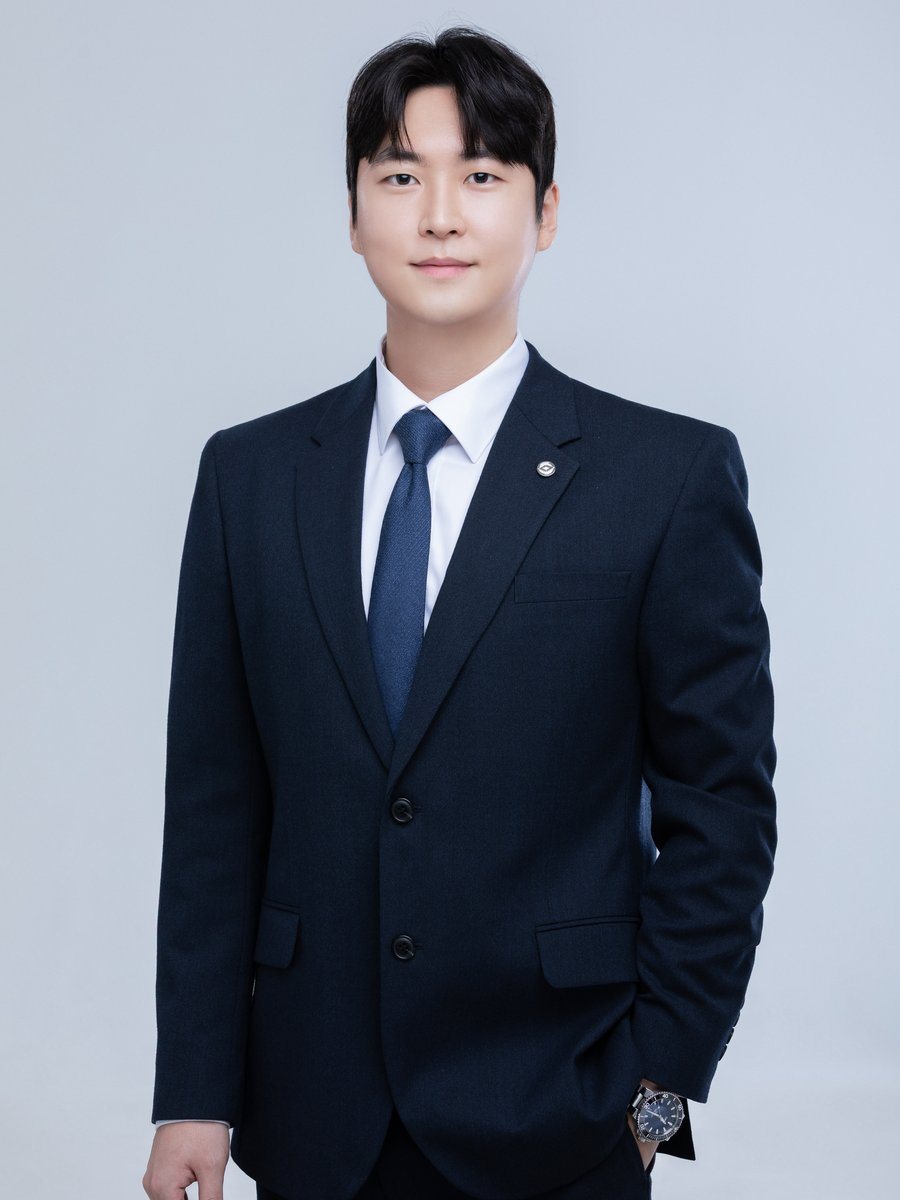
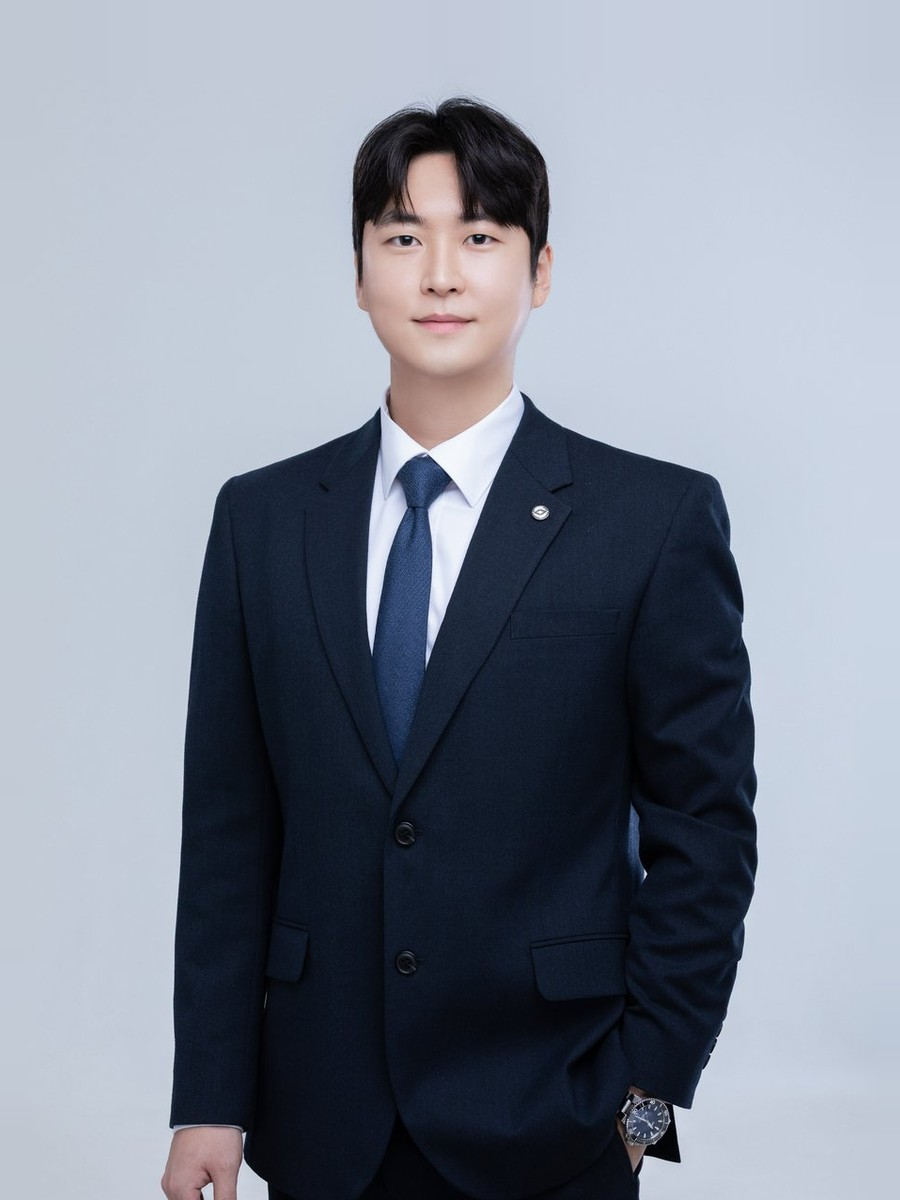
세무사 카드에 학력과 (현)·(전) 표기, 이메일을 대표 메일로, 이재환 사진 인물 크기 조정

diff --git a/about.html b/about.html
@@ -18,7 +18,7 @@
 <link rel="icon" href="img/favicon.png" type="image/png">
 <link rel="preconnect" href="https://cdn.jsdelivr.net" crossorigin>
 <link rel="stylesheet" href="https://cdn.jsdelivr.net/gh/orioncactus/pretendard@v1.3.9/dist/web/variable/pretendardvariable-dynamic-subset.min.css">
-<link rel="stylesheet" href="style.css?v=1795143042">
+<link rel="stylesheet" href="style.css?v=1795148250">
 <script type="application/ld+json">{"@context": "https://schema.org", "@type": "AccountingService", "name": "세무회계 재담", "slogan": "재산을 지키다", "url": "https://jaedam.kr/", "logo": "https://jaedam.kr/img/logo-039.png", "image": "https://jaedam.kr/img/og.png", "telephone": "+82-31-8023-9870", "faxNumber": "+82-31-8023-9871", "sameAs": ["https://blog.naver.com/simtaxby", "https://map.naver.com/p/entry/place/1283285464"], "address": {"@type": "PostalAddress", "addressCountry": "KR", "addressRegion": "경기도", "addressLocality": "성남시 분당구", "streetAddress": "판교역로 178, 서건타워 401호", "postalCode": "13524"}}</script>
 </head>
 <body>
@@ -58,7 +58,9 @@
         <span class="pcard-text">
           <strong>심재민</strong>
           <span class="pcard-role">세무사</span>
-          <span class="pcard-line">서울지방국세청 역삼세무서, 삼성화재</span>
+          <span class="pcard-line">(현) 세무회계 재담</span>
+          <span class="pcard-line">(전) 서울지방국세청 역삼세무서, 삼성화재</span>
+          <span class="pcard-line">University of Illinois at Urbana-Champaign</span>
         </span>
       </a>
       <a class="pcard" href="lee.html">
@@ -66,7 +68,9 @@
         <span class="pcard-text">
           <strong>이재환</strong>
           <span class="pcard-role">세무사</span>
-          <span class="pcard-line">DB손해보험, 세무법인 지오</span>
+          <span class="pcard-line">(현) 세무회계 재담</span>
+          <span class="pcard-line">(전) DB손해보험, 세무법인 지오</span>
+          <span class="pcard-line">고려대학교 철학·사회학 학사</span>
         </span>
       </a>
     </div>

diff --git a/index.html b/index.html
@@ -18,7 +18,7 @@
 <link rel="icon" href="img/favicon.png" type="image/png">
 <link rel="preconnect" href="https://cdn.jsdelivr.net" crossorigin>
 <link rel="stylesheet" href="https://cdn.jsdelivr.net/gh/orioncactus/pretendard@v1.3.9/dist/web/variable/pretendardvariable-dynamic-subset.min.css">
-<link rel="stylesheet" href="style.css?v=1795143042">
+<link rel="stylesheet" href="style.css?v=1795148250">
 <script type="application/ld+json">{"@context": "https://schema.org", "@type": "AccountingService", "name": "세무회계 재담", "slogan": "재산을 지키다", "url": "https://jaedam.kr/", "logo": "https://jaedam.kr/img/logo-039.png", "image": "https://jaedam.kr/img/og.png", "telephone": "+82-31-8023-9870", "faxNumber": "+82-31-8023-9871", "sameAs": ["https://blog.naver.com/simtaxby", "https://map.naver.com/p/entry/place/1283285464"], "address": {"@type": "PostalAddress", "addressCountry": "KR", "addressRegion": "경기도", "addressLocality": "성남시 분당구", "streetAddress": "판교역로 178, 서건타워 401호", "postalCode": "13524"}}</script>
 </head>
 <body>
@@ -61,7 +61,9 @@
         <span class="pcard-text">
           <strong>심재민</strong>
           <span class="pcard-role">세무사</span>
-          <span class="pcard-line">서울지방국세청 역삼세무서, 삼성화재</span>
+          <span class="pcard-line">(현) 세무회계 재담</span>
+          <span class="pcard-line">(전) 서울지방국세청 역삼세무서, 삼성화재</span>
+          <span class="pcard-line">University of Illinois at Urbana-Champaign</span>
         </span>
       </a>
       <a class="pcard" href="lee.html">
@@ -69,7 +71,9 @@
         <span class="pcard-text">
           <strong>이재환</strong>
           <span class="pcard-role">세무사</span>
-          <span class="pcard-line">DB손해보험, 세무법인 지오</span>
+          <span class="pcard-line">(현) 세무회계 재담</span>
+          <span class="pcard-line">(전) DB손해보험, 세무법인 지오</span>
+          <span class="pcard-line">고려대학교 철학·사회학 학사</span>
         </span>
       </a>
     </div>

diff --git a/sim.html b/sim.html
@@ -18,7 +18,7 @@
 <link rel="icon" href="img/favicon.png" type="image/png">
 <link rel="preconnect" href="https://cdn.jsdelivr.net" crossorigin>
 <link rel="stylesheet" href="https://cdn.jsdelivr.net/gh/orioncactus/pretendard@v1.3.9/dist/web/variable/pretendardvariable-dynamic-subset.min.css">
-<link rel="stylesheet" href="style.css?v=1795143042">
+<link rel="stylesheet" href="style.css?v=1795148250">
 <script type="application/ld+json">{"@context": "https://schema.org", "@type": "AccountingService", "name": "세무회계 재담", "slogan": "재산을 지키다", "url": "https://jaedam.kr/", "logo": "https://jaedam.kr/img/logo-039.png", "image": "https://jaedam.kr/img/og.png", "telephone": "+82-31-8023-9870", "faxNumber": "+82-31-8023-9871", "sameAs": ["https://blog.naver.com/simtaxby", "https://map.naver.com/p/entry/place/1283285464"], "address": {"@type": "PostalAddress", "addressCountry": "KR", "addressRegion": "경기도", "addressLocality": "성남시 분당구", "streetAddress": "판교역로 178, 서건타워 401호", "postalCode": "13524"}}</script>
 </head>
 <body>
@@ -48,12 +48,12 @@
       <dl class="facts">
         <div><dt>약력</dt><dd>삼성화재<br>서울지방국세청 역삼세무서<br>한국청년세무사회 상임이사</dd></div>
         <div><dt>학력</dt><dd>University of Illinois at Urbana-Champaign</dd></div>
-        <div><dt>이메일</dt><dd><a href="mailto:simtaxby@naver.com">simtaxby@naver.com</a></dd></div>
+        <div><dt>이메일</dt><dd><a href="mailto:tax@jaedam.kr">tax@jaedam.kr</a></dd></div>
         <div><dt>전화</dt><dd><a href="tel:031-8023-9870">031-8023-9870</a></dd></div>
       </dl>
       <div class="actions">
         <a class="btn btn-solid" href="tel:031-8023-9870">전화 상담 031-8023-9870</a>
-        <a class="btn btn-ghost" href="mailto:simtaxby@naver.com">이메일 보내기</a>
+        <a class="btn btn-ghost" href="mailto:tax@jaedam.kr">이메일 보내기</a>
       </div>
       <p class="more"><a href="lee.html">이재환 세무사 소개 보기</a></p>
     </div>

diff --git a/lee.html b/lee.html
@@ -18,7 +18,7 @@
 <link rel="icon" href="img/favicon.png" type="image/png">
 <link rel="preconnect" href="https://cdn.jsdelivr.net" crossorigin>
 <link rel="stylesheet" href="https://cdn.jsdelivr.net/gh/orioncactus/pretendard@v1.3.9/dist/web/variable/pretendardvariable-dynamic-subset.min.css">
-<link rel="stylesheet" href="style.css?v=1795143042">
+<link rel="stylesheet" href="style.css?v=1795148250">
 <script type="application/ld+json">{"@context": "https://schema.org", "@type": "AccountingService", "name": "세무회계 재담", "slogan": "재산을 지키다", "url": "https://jaedam.kr/", "logo": "https://jaedam.kr/img/logo-039.png", "image": "https://jaedam.kr/img/og.png", "telephone": "+82-31-8023-9870", "faxNumber": "+82-31-8023-9871", "sameAs": ["https://blog.naver.com/simtaxby", "https://map.naver.com/p/entry/place/1283285464"], "address": {"@type": "PostalAddress", "addressCountry": "KR", "addressRegion": "경기도", "addressLocality": "성남시 분당구", "streetAddress": "판교역로 178, 서건타워 401호", "postalCode": "13524"}}</script>
 </head>
 <body>
@@ -48,12 +48,12 @@
       <dl class="facts">
         <div><dt>약력</dt><dd>DB손해보험<br>세무법인 지오</dd></div>
         <div><dt>학력</dt><dd>고려대학교 철학·사회학 학사</dd></div>
-        <div><dt>이메일</dt><dd><a href="mailto:leetaxby@naver.com">leetaxby@naver.com</a></dd></div>
+        <div><dt>이메일</dt><dd><a href="mailto:tax@jaedam.kr">tax@jaedam.kr</a></dd></div>
         <div><dt>전화</dt><dd><a href="tel:031-8023-9870">031-8023-9870</a></dd></div>
       </dl>
       <div class="actions">
         <a class="btn btn-solid" href="tel:031-8023-9870">전화 상담 031-8023-9870</a>
-        <a class="btn btn-ghost" href="mailto:leetaxby@naver.com">이메일 보내기</a>
+        <a class="btn btn-ghost" href="mailto:tax@jaedam.kr">이메일 보내기</a>
       </div>
       <p class="more"><a href="sim.html">심재민 세무사 소개 보기</a></p>
     </div>

diff --git a/contact.html b/contact.html
@@ -18,7 +18,7 @@
 <link rel="icon" href="img/favicon.png" type="image/png">
 <link rel="preconnect" href="https://cdn.jsdelivr.net" crossorigin>
 <link rel="stylesheet" href="https://cdn.jsdelivr.net/gh/orioncactus/pretendard@v1.3.9/dist/web/variable/pretendardvariable-dynamic-subset.min.css">
-<link rel="stylesheet" href="style.css?v=1795143042">
+<link rel="stylesheet" href="style.css?v=1795148250">
 <script type="application/ld+json">{"@context": "https://schema.org", "@type": "AccountingService", "name": "세무회계 재담", "slogan": "재산을 지키다", "url": "https://jaedam.kr/", "logo": "https://jaedam.kr/img/logo-039.png", "image": "https://jaedam.kr/img/og.png", "telephone": "+82-31-8023-9870", "faxNumber": "+82-31-8023-9871", "sameAs": ["https://blog.naver.com/simtaxby", "https://map.naver.com/p/entry/place/1283285464"], "address": {"@type": "PostalAddress", "addressCountry": "KR", "addressRegion": "경기도", "addressLocality": "성남시 분당구", "streetAddress": "판교역로 178, 서건타워 401호", "postalCode": "13524"}}</script>
 </head>
 <body>
@@ -56,7 +56,7 @@
         <div><dt>주소</dt><dd>경기도 성남시 분당구 판교역로 178, 서건타워 401호<br><span class="sub">우편번호 13524, 판교역 1번 출구에서 236m</span></dd></div>
         <div><dt>전화</dt><dd><a href="tel:031-8023-9870">031-8023-9870</a></dd></div>
         <div><dt>팩스</dt><dd>031-8023-9871</dd></div>
-        <div><dt>이메일</dt><dd>심재민 세무사 <a href="mailto:simtaxby@naver.com">simtaxby@naver.com</a><br>이재환 세무사 <a href="mailto:leetaxby@naver.com">leetaxby@naver.com</a></dd></div>
+        <div><dt>이메일</dt><dd><a href="mailto:tax@jaedam.kr">tax@jaedam.kr</a></dd></div>
       </dl>
       <div class="actions">
         <a class="btn btn-solid" href="tel:031-8023-9870">전화 걸기</a>

diff --git a/services.html b/services.html
@@ -18,7 +18,7 @@
 <link rel="icon" href="img/favicon.png" type="image/png">
 <link rel="preconnect" href="https://cdn.jsdelivr.net" crossorigin>
 <link rel="stylesheet" href="https://cdn.jsdelivr.net/gh/orioncactus/pretendard@v1.3.9/dist/web/variable/pretendardvariable-dynamic-subset.min.css">
-<link rel="stylesheet" href="style.css?v=1795143042">
+<link rel="stylesheet" href="style.css?v=1795148250">
 <script type="application/ld+json">{"@context": "https://schema.org", "@type": "AccountingService", "name": "세무회계 재담", "slogan": "재산을 지키다", "url": "https://jaedam.kr/", "logo": "https://jaedam.kr/img/logo-039.png", "image": "https://jaedam.kr/img/og.png", "telephone": "+82-31-8023-9870", "faxNumber": "+82-31-8023-9871", "sameAs": ["https://blog.naver.com/simtaxby", "https://map.naver.com/p/entry/place/1283285464"], "address": {"@type": "PostalAddress", "addressCountry": "KR", "addressRegion": "경기도", "addressLocality": "성남시 분당구", "streetAddress": "판교역로 178, 서건타워 401호", "postalCode": "13524"}}</script>
 </head>
 <body>

diff --git a/style.css b/style.css
@@ -154,6 +154,7 @@ h3 { font-size: 1.25rem; }
 .pcard strong { font-size: 1.75rem; font-weight: 700; letter-spacing: -0.02em; line-height: 1.2; }
 .pcard-role { font-size: 1rem; font-weight: 500; }
 .pcard-line { margin-top: 8px; font-size: 0.9375rem; line-height: 1.5; }
+.pcard-line + .pcard-line { margin-top: 0; }
 @media (hover: hover) and (pointer: fine) { .pcard:hover { transform: translateY(-4px); } }
 
 /* 홈의 세무사 구역: 제목을 따로 두지 않고 큰 사진 두 장에 이름을 얹는다 */
